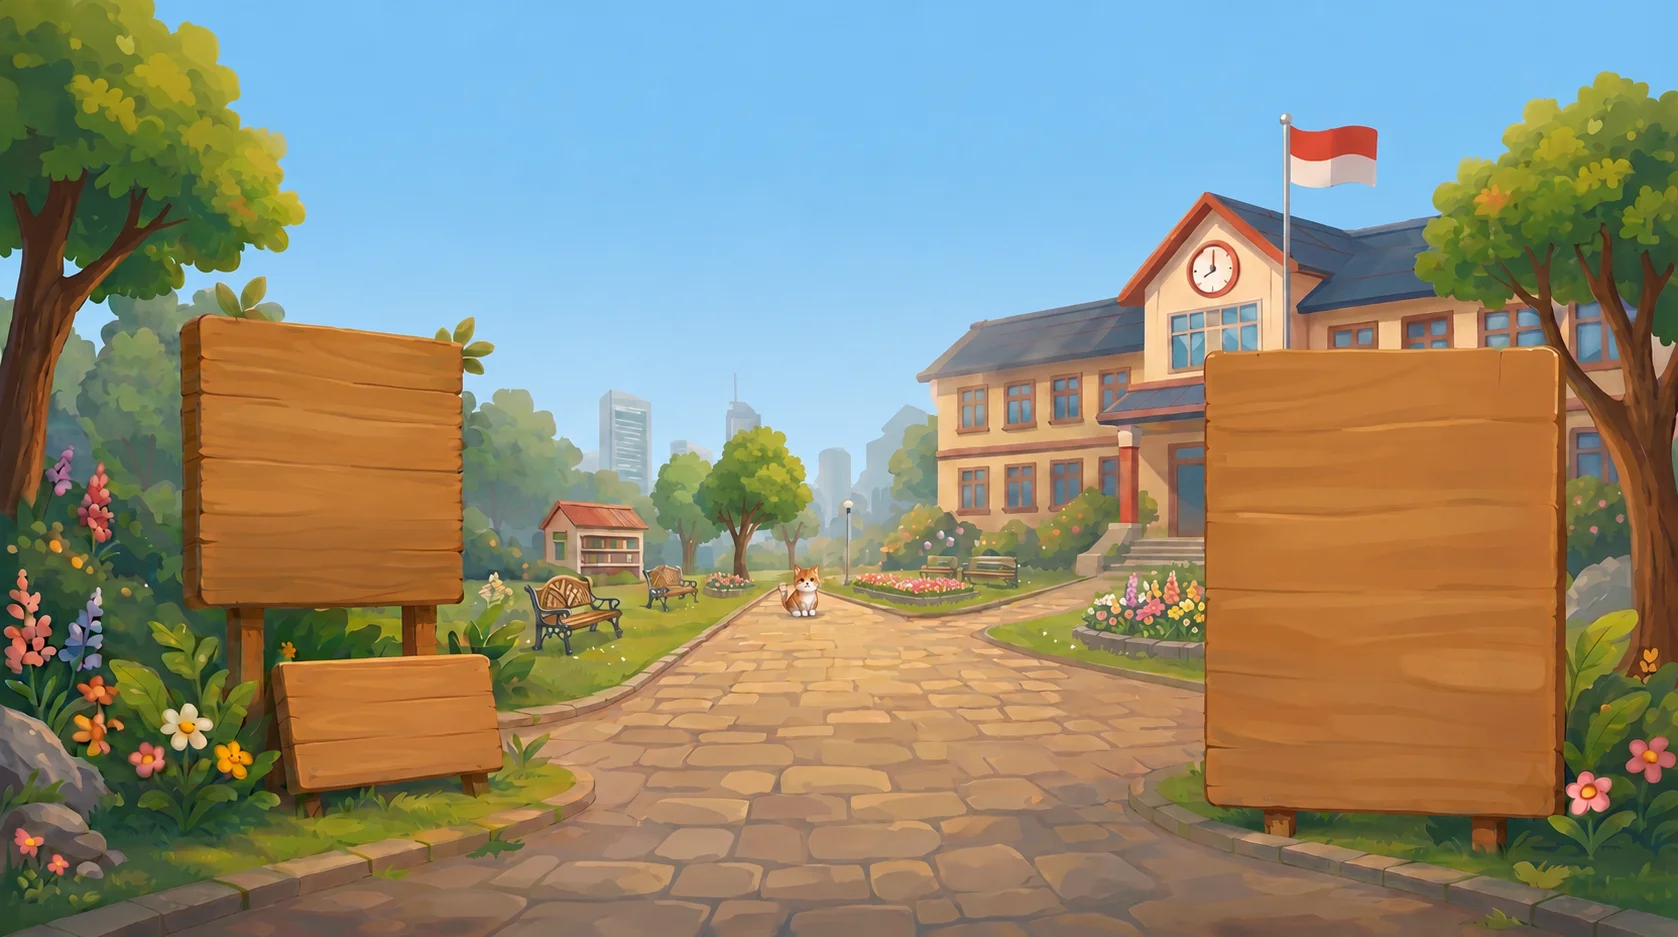
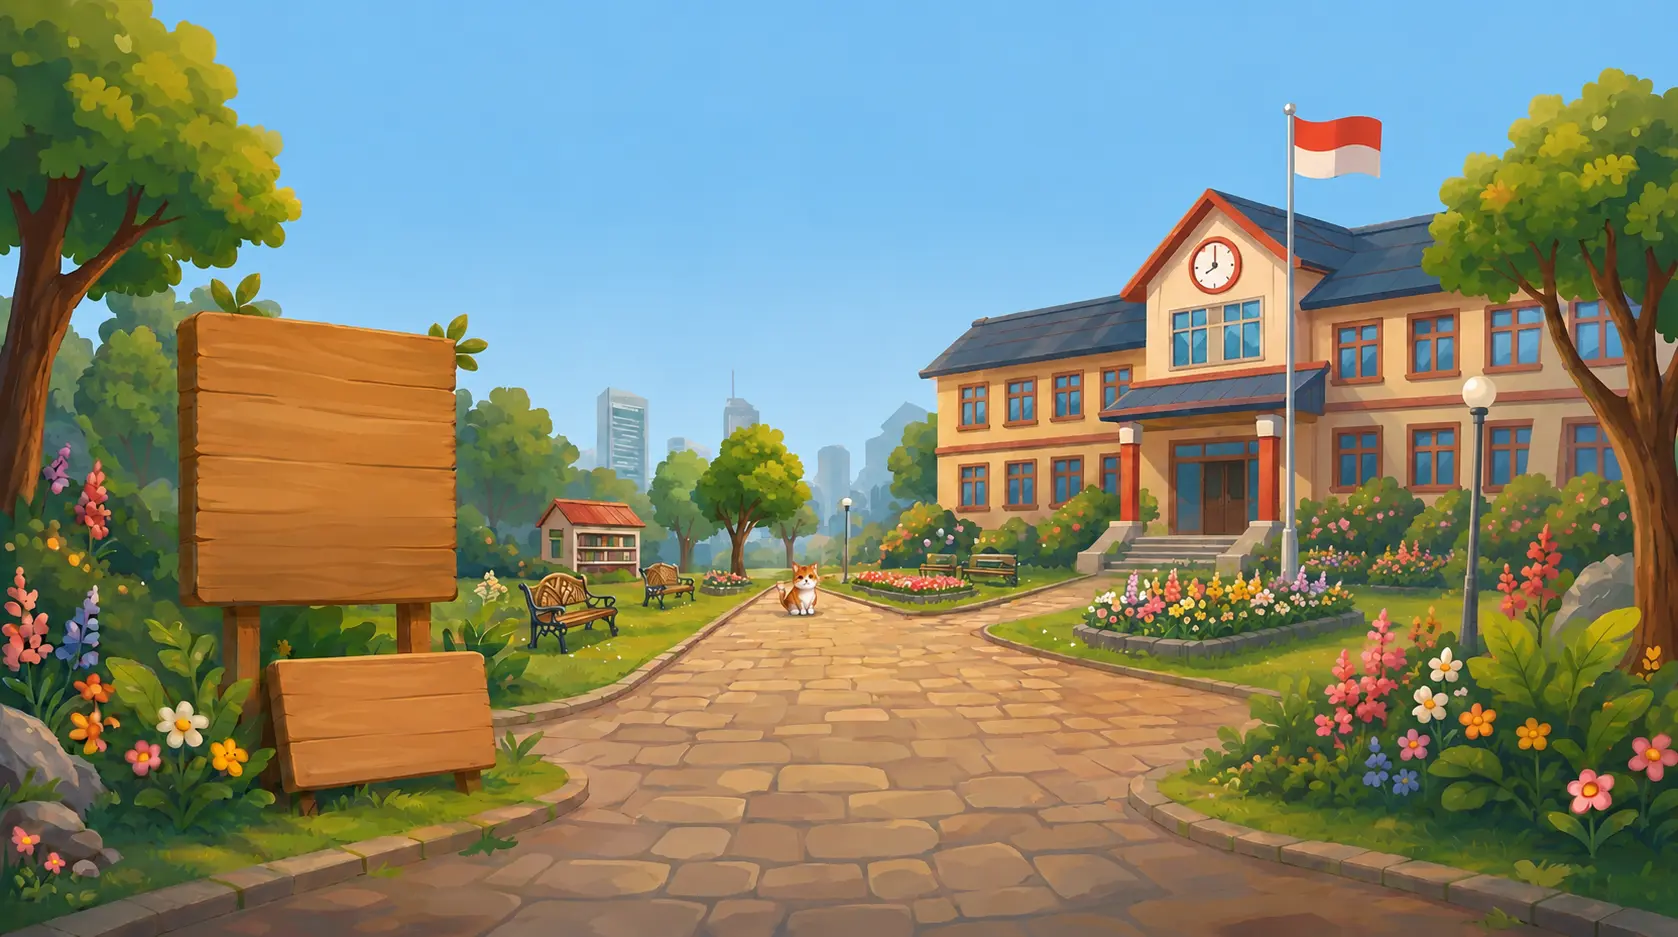
remove right board from landingpage

diff --git a/src/pages/LandingPage.jsx b/src/pages/LandingPage.jsx
@@ -1,5 +1,5 @@
-import React, { useState } from 'react';
-import { motion, AnimatePresence } from 'framer-motion';
+import React from 'react';
+import { motion } from 'framer-motion';
 import bgLandingNew from '../assets/background_landingpage/background_landingpage.webp';
 import burungBiru from '../assets/images/charachters_landingpage/burung_biru.webp';
 import cardKiriAtas from '../assets/images/charachters_landingpage/card kiri atas.webp';
@@ -12,32 +12,12 @@ import {
   MessageSquare, 
   Mic, 
   Star, 
-  Heart, 
   BookOpen, 
-  Smile, 
-  Users, 
-  ArrowRight, 
   Lightbulb,
   GraduationCap
 } from 'lucide-react';
 
 export default function LandingPage({ onStudentStart, onTeacherStart, onScoreDashboard }) {
-  const [activeTopic, setActiveTopic] = useState(null);
-  const topicsList = [
-    { id: 1, name: 'Sifat Jujur', char: 'Bima' },
-    { id: 2, name: 'Sifat Rajin', char: 'Sari' },
-    { id: 3, name: 'Sifat Ramah', char: 'Dodi' },
-    { id: 4, name: 'Sifat Pemberani', char: 'Nadia' },
-    { id: 5, name: 'Persahabatan', char: 'Wulan & Citra' }
-  ];
-
-  const handleTopicClick = (topic) => {
-    setActiveTopic(topic);
-    // Auto-dismiss toast after 3 seconds
-    setTimeout(() => {
-      setActiveTopic(null);
-    }, 3000);
-  };
 
   return (
     <motion.div 
@@ -381,71 +361,6 @@ export default function LandingPage({ onStudentStart, onTeacherStart, onScoreDas
             </motion.button>
           </div>
 
-          {/* 9. Right Signpost (Topics List) */}
-          {/* Title Badge banner */}
-          <div 
-            className="absolute z-20 bg-[#8b5cf6] text-white font-extrabold px-3 py-1 rounded-full shadow-md text-center flex items-center justify-center border-2 border-white"
-            style={{
-              left: '76%',
-              width: '13.5%',
-              top: '34%',
-              height: '5%',
-              fontSize: 'min(1.3vw, 15px)'
-            }}
-          >
-            Topik Cerita
-          </div>
-
-          {/* Topic buttons rendered absolutely matching the hotspot grid */}
-          {topicsList.map((topic, index) => {
-            const topPercent = 40.3 + (index * 8.9);
-            
-            const themes = [
-              { bg: 'bg-[#ecfdf5]', border: 'border-[#a7f3d0]', iconBg: 'bg-emerald-500', text: 'text-emerald-700', arrowBg: 'bg-[#10b981]', LucideIcon: Heart },
-              { bg: 'bg-[#eff6ff]', border: 'border-[#bfdbfe]', iconBg: 'bg-blue-500', text: 'text-blue-700', arrowBg: 'bg-[#3b82f6]', LucideIcon: BookOpen },
-              { bg: 'bg-[#faf5ff]', border: 'border-[#e9d5ff]', iconBg: 'bg-purple-500', text: 'text-purple-700', arrowBg: 'bg-[#8b5cf6]', LucideIcon: Smile },
-              { bg: 'bg-[#fff7ed]', border: 'border-[#fed7aa]', iconBg: 'bg-orange-500', text: 'text-orange-700', arrowBg: 'bg-[#f97316]', LucideIcon: Star },
-              { bg: 'bg-[#fff1f2]', border: 'border-[#fecdd3]', iconBg: 'bg-pink-500', text: 'text-pink-700', arrowBg: 'bg-[#ec4899]', LucideIcon: Users }
-            ];
-            const theme = themes[index] || themes[0];
-            const Icon = theme.LucideIcon;
-
-            return (
-              <button
-                key={topic.id}
-                onClick={() => handleTopicClick(topic)}
-                title={`Pilih ${topic.name}`}
-                className={`absolute flex items-center justify-between ${theme.bg} border-2 ${theme.border} rounded-2xl px-3 py-1 shadow-md hover:scale-[1.03] active:scale-[0.98] transition-all cursor-pointer group`}
-                style={{
-                  left: '72.4%',
-                  width: '21.3%',
-                  top: `${topPercent}%`,
-                  height: '7.1%',
-                }}
-              >
-                <div className="flex items-center gap-2 overflow-hidden w-full mr-1">
-                  {/* Circular Icon badge */}
-                  <div className={`w-[2.4vw] h-[2.4vw] min-w-[24px] min-h-[24px] max-w-[34px] max-h-[34px] rounded-full ${theme.iconBg} flex items-center justify-center shrink-0 shadow-inner`}>
-                    <Icon className="w-[55%] h-[55%] text-white" strokeWidth={2.5} />
-                  </div>
-                  
-                  <div className="text-left leading-tight truncate">
-                    <span className="block font-black text-slate-800" style={{ fontSize: 'min(1.1vw, 13px)' }}>
-                      {index + 1}. {topic.name}
-                    </span>
-                    <span className="block font-bold text-slate-500" style={{ fontSize: 'min(0.9vw, 11px)' }}>
-                      {topic.char}
-                    </span>
-                  </div>
-                </div>
-
-                {/* Circular Arrow Badge */}
-                <div className={`w-[2.2vw] h-[2.2vw] min-w-[22px] min-h-[22px] max-w-[30px] max-h-[30px] rounded-full ${theme.arrowBg} flex items-center justify-center shrink-0 shadow-md group-hover:translate-x-0.5 transition-transform`}>
-                  <ArrowRight className="w-[55%] h-[55%] text-white" strokeWidth={3} />
-                </div>
-              </button>
-            );
-          })}
 
           {/* 10. Bottom Tips Bar */}
           <div 
@@ -507,22 +422,7 @@ export default function LandingPage({ onStudentStart, onTeacherStart, onScoreDas
         </div>
       </div>
 
-      {/* Interactive Toast Message for Topics */}
-      <AnimatePresence>
-        {activeTopic && (
-          <motion.div
-            initial={{ opacity: 0, y: 50, scale: 0.9 }}
-            animate={{ opacity: 1, y: 0, scale: 1 }}
-            exit={{ opacity: 0, y: 20, scale: 0.9 }}
-            className="fixed bottom-16 left-[50%] translate-x-[-50%] z-50 bg-[#315588] text-white px-6 py-4 rounded-2xl shadow-xl border border-white/10 text-center max-w-sm"
-          >
-            <h4 className="font-bold text-lg mb-1">Materi "{activeTopic.name}" Sedang Disiapkan! 🚀</h4>
-            <p className="text-xs text-blue-100 font-bold">
-              Ayo daftarkan dirimu dengan menekan tombol <strong>MULAI BELAJAR</strong> untuk mempelajari petualangan lingkungan terlebih dahulu!
-            </p>
-          </motion.div>
-        )}
-      </AnimatePresence>
+
     </motion.div>
   );
 }

diff --git a/src/pages/sebab_akibat.jsx b/src/pages/sebab_akibat.jsx
@@ -54,7 +54,7 @@ export default function SebabAkibat({ onHome }) {
 
       {/* Main Grid Content - Top Row: Card 1 (Left) & Card 2 (Right) */}
       <div className="grid grid-cols-1 lg:grid-cols-2 gap-5">
-        
+
         {/* CARD 1: Mengenal Kalimat Majemuk Sebab-Akibat */}
         <div className="bg-white rounded-3xl p-5 md:p-6 shadow-md border-2 border-slate-100 flex flex-col justify-between space-y-4 relative overflow-hidden">
           {/* Card Header */}
@@ -77,10 +77,10 @@ export default function SebabAkibat({ onHome }) {
             {/* Cause Box - Render full image without cropping text */}
             <div className="flex flex-col items-center text-center bg-white p-2 rounded-2xl border border-blue-200 shadow-sm w-full sm:w-56 overflow-hidden">
               <div className="w-full bg-amber-50/50 rounded-xl overflow-hidden border border-amber-200 flex items-center justify-center p-1">
-                <img 
-                  src={sebabImg} 
-                  alt="Sebab: Belajar dengan giat" 
-                  className="w-full h-auto max-h-56 object-contain rounded-lg" 
+                <img
+                  src={sebabImg}
+                  alt="Sebab: Belajar dengan giat"
+                  className="w-full h-auto max-h-56 object-contain rounded-lg"
                 />
               </div>
             </div>
@@ -92,10 +92,10 @@ export default function SebabAkibat({ onHome }) {
             {/* Effect Box - Render full image without cropping text */}
             <div className="flex flex-col items-center text-center bg-white p-2 rounded-2xl border border-blue-200 shadow-sm w-full sm:w-56 overflow-hidden">
               <div className="w-full bg-emerald-50/50 rounded-xl overflow-hidden border border-emerald-200 flex items-center justify-center p-1">
-                <img 
-                  src={akibatImg} 
-                  alt="Akibat: Mendapat nilai bagus" 
-                  className="w-full h-auto max-h-56 object-contain rounded-lg" 
+                <img
+                  src={akibatImg}
+                  alt="Akibat: Mendapat nilai bagus"
+                  className="w-full h-auto max-h-56 object-contain rounded-lg"
                 />
               </div>
             </div>
@@ -219,7 +219,7 @@ export default function SebabAkibat({ onHome }) {
         <div className="grid grid-cols-1 lg:grid-cols-5 gap-4 items-stretch">
           {/* 4 Example Sub-cards (Taking 4 out of 5 columns on desktop) */}
           <div className="lg:col-span-4 grid grid-cols-1 sm:grid-cols-2 xl:grid-cols-4 gap-4">
-            
+
             {/* Sub-card 1: Nina */}
             <div className="bg-slate-50 border border-slate-200 rounded-2xl p-3 flex flex-col justify-between space-y-3 shadow-sm hover:shadow-md transition-shadow">
               <div className="flex items-start gap-2">
@@ -230,7 +230,7 @@ export default function SebabAkibat({ onHome }) {
                   Nina tidur terlalu larut, <span className="text-emerald-600 font-black">sehingga</span> ia bangun kesiangan.
                 </p>
               </div>
-              
+
               {/* Illustration: Nina */}
               <div className="w-full h-32 bg-indigo-50/70 rounded-xl overflow-hidden border border-indigo-100 p-1 flex items-center justify-center">
                 <img src={ninaImg} alt="Nina tidur terlalu larut" className="w-full h-full object-contain rounded-lg" />
@@ -252,7 +252,7 @@ export default function SebabAkibat({ onHome }) {
                   Raka minum air putih yang cukup <span className="text-amber-600 font-black">karena</span> ia haus setelah bermain.
                 </p>
               </div>
-              
+
               {/* Illustration: Raka */}
               <div className="w-full h-32 bg-amber-50/70 rounded-xl overflow-hidden border border-amber-100 p-1 flex items-center justify-center">
                 <img src={rakaImg} alt="Raka minum air putih" className="w-full h-full object-contain rounded-lg" />
@@ -274,7 +274,7 @@ export default function SebabAkibat({ onHome }) {
                   Siti menyiram tanaman setiap pagi, <span className="text-emerald-600 font-black">sehingga</span> tanamannya tumbuh subur.
                 </p>
               </div>
-              
+
               {/* Illustration: Siti */}
               <div className="w-full h-32 bg-emerald-50/70 rounded-xl overflow-hidden border border-emerald-100 p-1 flex items-center justify-center">
                 <img src={sitiImg} alt="Siti menyiram tanaman" className="w-full h-full object-contain rounded-lg" />
@@ -296,7 +296,7 @@ export default function SebabAkibat({ onHome }) {
                   Dodi rajin belajar setiap hari <span className="text-amber-600 font-black">karena</span> ingin meraih cita-citanya.
                 </p>
               </div>
-              
+
               {/* Illustration: Dodi */}
               <div className="w-full h-32 bg-purple-50/70 rounded-xl overflow-hidden border border-purple-100 p-1 flex items-center justify-center">
                 <img src={dodiImg} alt="Dodi rajin belajar" className="w-full h-full object-contain rounded-lg" />

diff --git a/src/pages/ChallengePage.jsx b/src/pages/ChallengePage.jsx
@@ -9,6 +9,20 @@ import dodiImg from '../assets/images/dodi.webp';
 import nadiaImg from '../assets/images/nadia.webp';
 import wulanCitraImg from '../assets/images/wulan_citra.webp';
 
+// Import Picture Sorting Challenge WebP images
+import belajarBersamaImg from '../assets/image_challenge/belajar_bersama.webp';
+import bergosipImg from '../assets/image_challenge/bergosip.webp';
+import berkataJujurImg from '../assets/image_challenge/berkata_jujur.webp';
+import bertanggungJawabImg from '../assets/image_challenge/bertanggung_jawab.webp';
+import membantuTemanImg from '../assets/image_challenge/membantu_teman.webp';
+import membuangSampahImg from '../assets/image_challenge/membuang_sampah.webp';
+import mengembalikanBarangImg from '../assets/image_challenge/mengembalikan_barang_orang_lain.webp';
+import mengembalikanDompetImg from '../assets/image_challenge/mengembalikan_dompet.webp';
+import menghargaiOrangLainImg from '../assets/image_challenge/menghargai_orang_lain.webp';
+import menyelesaikanTugasImg from '../assets/image_challenge/menyelesaikan_tugas.webp';
+import menyontekImg from '../assets/image_challenge/menyontek.webp';
+import merusakBarangImg from '../assets/image_challenge/merusak_barang.webp';
+
 const charImages = {
   bima: bimaImg,
   sari: sariImg,
@@ -45,18 +59,18 @@ const challengesData = {
       incorrectLabel: "BUKAN PERILAKU JUJUR",
       incorrectDesc: "Anak berbohong, menyembunyikan kesalahan, atau melakukan hal yang tidak benar.",
       items: [
-        { id: "p1", text: "Mengembalikan dompet", emoji: "👛", isCorrectCategory: true },
-        { id: "p2", text: "Menyelesaikan tugas", emoji: "📝", isCorrectCategory: true },
-        { id: "p3", text: "Berkata jujur", emoji: "🗣", isCorrectCategory: true },
-        { id: "p4", text: "Menyontek", emoji: "👀", isCorrectCategory: false },
-        { id: "p5", text: "Mengembalikan barang", emoji: "📦", isCorrectCategory: true },
-        { id: "p6", text: "Bertanggung jawab", emoji: "🛡", isCorrectCategory: true },
-        { id: "p7", text: "Membuang sampah", emoji: "🗑", isCorrectCategory: true },
-        { id: "p8", text: "Belajar bersama", emoji: "📖", isCorrectCategory: true },
-        { id: "p9", text: "Bergosip", emoji: "💬", isCorrectCategory: false },
-        { id: "p10", text: "Membantu teman", emoji: "🤝", isCorrectCategory: true },
-        { id: "p11", text: "Menghargai orang lain", emoji: "🙏", isCorrectCategory: true },
-        { id: "p12", text: "Merusak barang", emoji: "🔨", isCorrectCategory: false }
+        { id: "p1", text: "Mengembalikan dompet", image: mengembalikanDompetImg, emoji: "👛", isCorrectCategory: true },
+        { id: "p2", text: "Menyelesaikan tugas", image: menyelesaikanTugasImg, emoji: "📝", isCorrectCategory: true },
+        { id: "p3", text: "Berkata jujur", image: berkataJujurImg, emoji: "🗣", isCorrectCategory: true },
+        { id: "p4", text: "Menyontek", image: menyontekImg, emoji: "👀", isCorrectCategory: false },
+        { id: "p5", text: "Mengembalikan barang", image: mengembalikanBarangImg, emoji: "📦", isCorrectCategory: true },
+        { id: "p6", text: "Bertanggung jawab", image: bertanggungJawabImg, emoji: "🛡", isCorrectCategory: true },
+        { id: "p7", text: "Membuang sampah", image: membuangSampahImg, emoji: "🗑", isCorrectCategory: true },
+        { id: "p8", text: "Belajar bersama", image: belajarBersamaImg, emoji: "📖", isCorrectCategory: true },
+        { id: "p9", text: "Bergosip", image: bergosipImg, emoji: "💬", isCorrectCategory: false },
+        { id: "p10", text: "Membantu teman", image: membantuTemanImg, emoji: "🤝", isCorrectCategory: true },
+        { id: "p11", text: "Menghargai orang lain", image: menghargaiOrangLainImg, emoji: "🙏", isCorrectCategory: true },
+        { id: "p12", text: "Merusak barang", image: merusakBarangImg, emoji: "🔨", isCorrectCategory: false }
       ]
     },
     storyPuzzle: {
@@ -820,7 +834,17 @@ export default function ChallengePage({ topic, onComplete, onNext, onBack, onSte
                         </div>
                       )}
 
-                      <span className="text-3xl md:text-4xl mt-1 select-none">{item.emoji}</span>
+                      {item.image ? (
+                        <div className="w-full flex-1 min-h-0 overflow-hidden rounded-xl bg-slate-100 flex items-center justify-center mb-1.5">
+                          <img 
+                            src={item.image} 
+                            alt={item.text} 
+                            className="w-full h-full object-cover" 
+                          />
+                        </div>
+                      ) : (
+                        <span className="text-3xl md:text-4xl mt-1 select-none">{item.emoji}</span>
+                      )}
                       
                       <span className="text-[10px] font-black text-slate-700 leading-tight mb-1">
                         {item.text}
